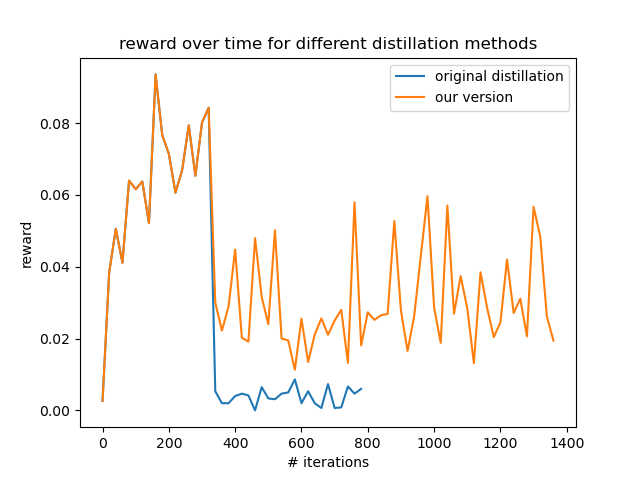
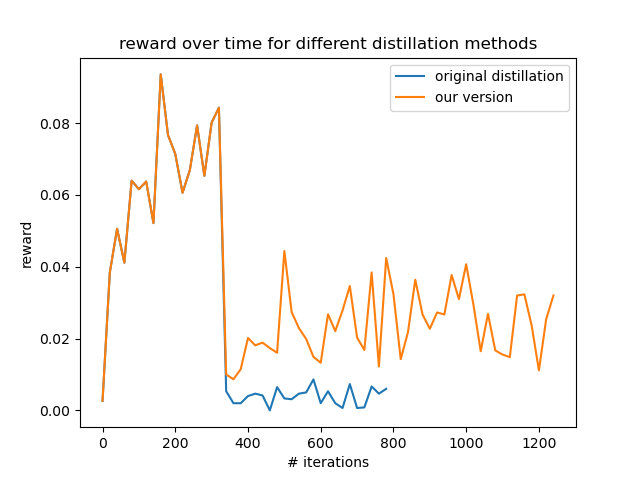
Graph

diff --git a/scripts/train_model.py b/scripts/train_model.py
@@ -52,7 +52,10 @@ def load_experiment(args):
     return args, log_dict
 
 
-def create_agent(path, teacher, env, args, obs_preprocessor) -> Agent:
+def create_agent(path, teacher, env, args, obs_preprocessor, agent_label) -> Agent:
+    if path is not None:
+        agent_label = f"Grounded {agent_label}"
+
     if args.algo == 'sac':
         args.on_policy = False
         agent = SACAgent(args=args, obs_preprocessor=obs_preprocessor, teacher=teacher, env=env, discount=args.discount,
@@ -60,7 +63,7 @@ def create_agent(path, teacher, env, args, obs_preprocessor) -> Agent:
                          control_penalty=args.control_penalty)
     elif args.algo == 'ppo':
         args.on_policy = True
-        agent = PPOAgent(args=args, obs_preprocessor=obs_preprocessor, teacher=teacher, env=env)
+        agent = PPOAgent(args=args, obs_preprocessor=obs_preprocessor, teacher=teacher, env=env, agent_label=agent_label)
     else:
         raise NotImplementedError(args.algo)
 
@@ -205,7 +208,7 @@ def eval_policy(policy, env, args, exp_dir):
                     f'{det_accuracy},{reward} \n')
 
 
-def load_experiment_objects(args):
+def run_experiment(args):
     args, log_dict = load_experiment(args)
     if not hasattr(args, 'noise'):
         args.noise = False
@@ -223,10 +226,23 @@ def load_experiment_objects(args):
     # We can't collect with both policies
     assert not (args.collect_with_rl_policy and args.collect_with_distill_policy)
 
+
     log_policy = None
-    rl_agent, log_policy = create_rl_agent(args, env, log_policy, obs_preprocessor)
-    distilling_agent, log_policy = create_distill_agent(args, env, log_policy, obs_preprocessor)
-    relabel_policy = relabel_agent(args, env, obs_preprocessor)
+    if args.rl_teacher is not None:
+        rl_agent = create_agent(args.rl_policy, args.rl_teacher, env, args,
+                                 obs_preprocessor, 'RL Agent')
+        log_policy = rl_agent
+    else:
+        rl_agent = None
+    if args.distill_teacher is not None:
+        distilling_agent = create_agent(args.distill_policy, args.distill_teacher, env, args, obs_preprocessor, 'Distilling Agent')
+        log_policy = distilling_agent
+    else:
+        distilling_agent = None
+    if args.relabel_teacher is not None:
+        relabel_policy = create_agent(args.relabel_policy, args.relabel_teacher, env, args, obs_preprocessor, 'Relabel policy')
+    else:
+        relabel_policy = None
 
     if args.collect_with_rl_policy:
         collect_policy = rl_agent
@@ -235,7 +251,7 @@ def load_experiment_objects(args):
         collect_policy = distilling_agent
         args.collect_teacher = args.distill_teacher
     elif args.collect_teacher is not None:
-        collect_policy = create_agent(args.collect_policy, args.collect_teacher, env, args, obs_preprocessor)
+        collect_policy = create_agent(args.collect_policy, args.collect_teacher, env, args, obs_preprocessor, 'Collect Policy')
         if log_policy is None:
             log_policy = collect_policy
     else:

diff --git a/algos/ppo.py b/algos/ppo.py
@@ -13,7 +13,7 @@ from algos import utils
 class PPOAgent(Agent):
     """PPO algorithm."""
 
-    def __init__(self, args, obs_preprocessor, teacher, env, device=None, advice_dim=128):
+    def __init__(self, args, obs_preprocessor, teacher, env, device=None, advice_dim=128, agent_label = 'Default'):
         self.args = args
         self.env = env
         self.teacher = teacher
@@ -22,6 +22,7 @@ class PPOAgent(Agent):
         self.action_shape = 1 if args.discrete else self.action_dim
         self.advice_size = 0 if teacher is 'none' else len(obs[teacher])
         self.advice_dim = 0 if self.advice_size == 0 else advice_dim
+        self.agent_label = agent_label
         if device is None:
             device = 'cuda' if torch.cuda.is_available() else 'cpu'
         super().__init__(args, obs_preprocessor, teacher, env, device=device, advice_size=self.advice_size,
@@ -162,3 +163,11 @@ class PPOAgent(Agent):
         logger.logkv('Train/Action_magnitude_L1', utils.to_np(action.float().norm(1, dim=-1).mean()))
         logger.logkv('Train/Action_max', utils.to_np(action.float().max(dim=-1)[0].mean()))
         pass
+
+    def __str__(self):
+        return f'''PPOAgent(
+  (agent_label): {self.agent_label}
+  (advice_embedding): ${self.advice_embedding}
+  (critic): {self.critic}
+  (actor): {self.actor}
+)'''

diff --git a/utils/test_creating_graphs.py b/utils/test_creating_graphs.py
@@ -7,9 +7,9 @@ class MyTestCase(unittest.TestCase):
 
 
     def test_something(self):
-        grounding = pd.read_csv("/home/claire/Projects_Test/teachable-rl/scripts/logs/persisted_models_distill/claire/results.csv")
-        mlp_distill = pd.read_csv("/home/claire/Projects_Test/teachable-rl/scripts/logs/persisted_models_distill/distilled_with_mlp_2/results.csv")
-        paper_distill = pd.read_csv("/home/claire/Projects_Test/teachable-rl/scripts/logs/persisted_models_distill/original_distillation/results.csv")
+        grounding = pd.read_csv("scripts/logs/persisted_models_distill/claire/results.csv")
+        mlp_distill = pd.read_csv("scripts/logs/persisted_models_distill/distillation_well_trained_converter/results.csv")
+        paper_distill = pd.read_csv("scripts/logs/persisted_models_distill/original_distillation/results.csv")
 
         mlp_distill = pd.concat([grounding, mlp_distill])
         paper_distill = pd.concat([grounding, paper_distill])
@@ -20,8 +20,8 @@ class MyTestCase(unittest.TestCase):
         plt.ylabel("reward")
         plt.title("reward over time for different distillation methods")
         plt.legend()
+        plt.savefig('graph.png')
         plt.show()
-        #self.assertEqual(True, False)  # add assertion here
 
 
 if __name__ == '__main__':

diff --git a/algos/agent.py b/algos/agent.py
@@ -57,7 +57,7 @@ class Agent(nn.Module):
         else:
             self.advice_embedding = utils.mlp(advice_size, None, advice_dim, 0, output_mod=nn.Sigmoid()).to(self.device)
             if self.use_input_converter:
-                self.advice_embedding.load_state_dict(torch.load("../advice_embedder.pth"))
+                self.advice_embedding.load_state_dict(torch.load("../advice embedder.pth"))
 
         # TODO: these next 2 lines are in place since I want to run models collected before recon_coef was added.
         # If you're not doing this, feel free to remove.

diff --git a/final_demo.py b/final_demo.py
@@ -144,7 +144,7 @@ class HumanFeedback:
         obs_preprocessor = make_obs_preprocessor([self.args.feedback_type])
         env = exp_data['env']
         args = exp_data['args']
-        policy = create_agent(path, self.args.feedback_type, env, args, obs_preprocessor)
+        policy = create_agent(path, self.args.feedback_type, env, args, obs_preprocessor, 'Human Policy')
         set_seed(self.args.seed)
         env.seed(self.args.seed)
         return policy, env, args

diff --git a/README.md b/README.md
@@ -96,3 +96,48 @@ logs/persisted_models_distill/claire
 * If you use babyAI, there are even smaller mazes than those used in the paper. These could be faster.
 * Use a GPU, if you have one available.
 * You might see small efficiency gains if you sweep over learning rate and frames_per_proc
+
+### Experiments we ran
+
+#### Distillation 
+```
+--prefix persisted_models_distill/original_distillation_cont
+--collect_policy logs/persisted_models_distill/claire
+--collect_teacher Direction
+--rl_policy logs/persisted_models_distill/claire
+--level 2
+--frames_per_proc 200
+--num_envs 20
+
+--distill_teacher OffsetWaypoint
+--env point_mass
+--save_option all
+--n_itr
+10000
+```
+
+This runs with: 
+rl_agent will be **None**
+distilling_agent is a *newly initialized* PPO Agent
+relabel_policy is **None** 
+
+Collect Teacher is Direction -> 
+collect_policy is the Grounded Agent **with weights**
+
+
+```
+--collect_with_rl_policy
+--rl_policy logs/persisted_models_distill/grounded
+--rl_teacher Direction
+--use_input_converter
+--env point_mass
+--level 2
+--frames_per_proc 200
+--num_envs 20
+--save_option
+all
+--n_itr
+10000
+```
+
+
